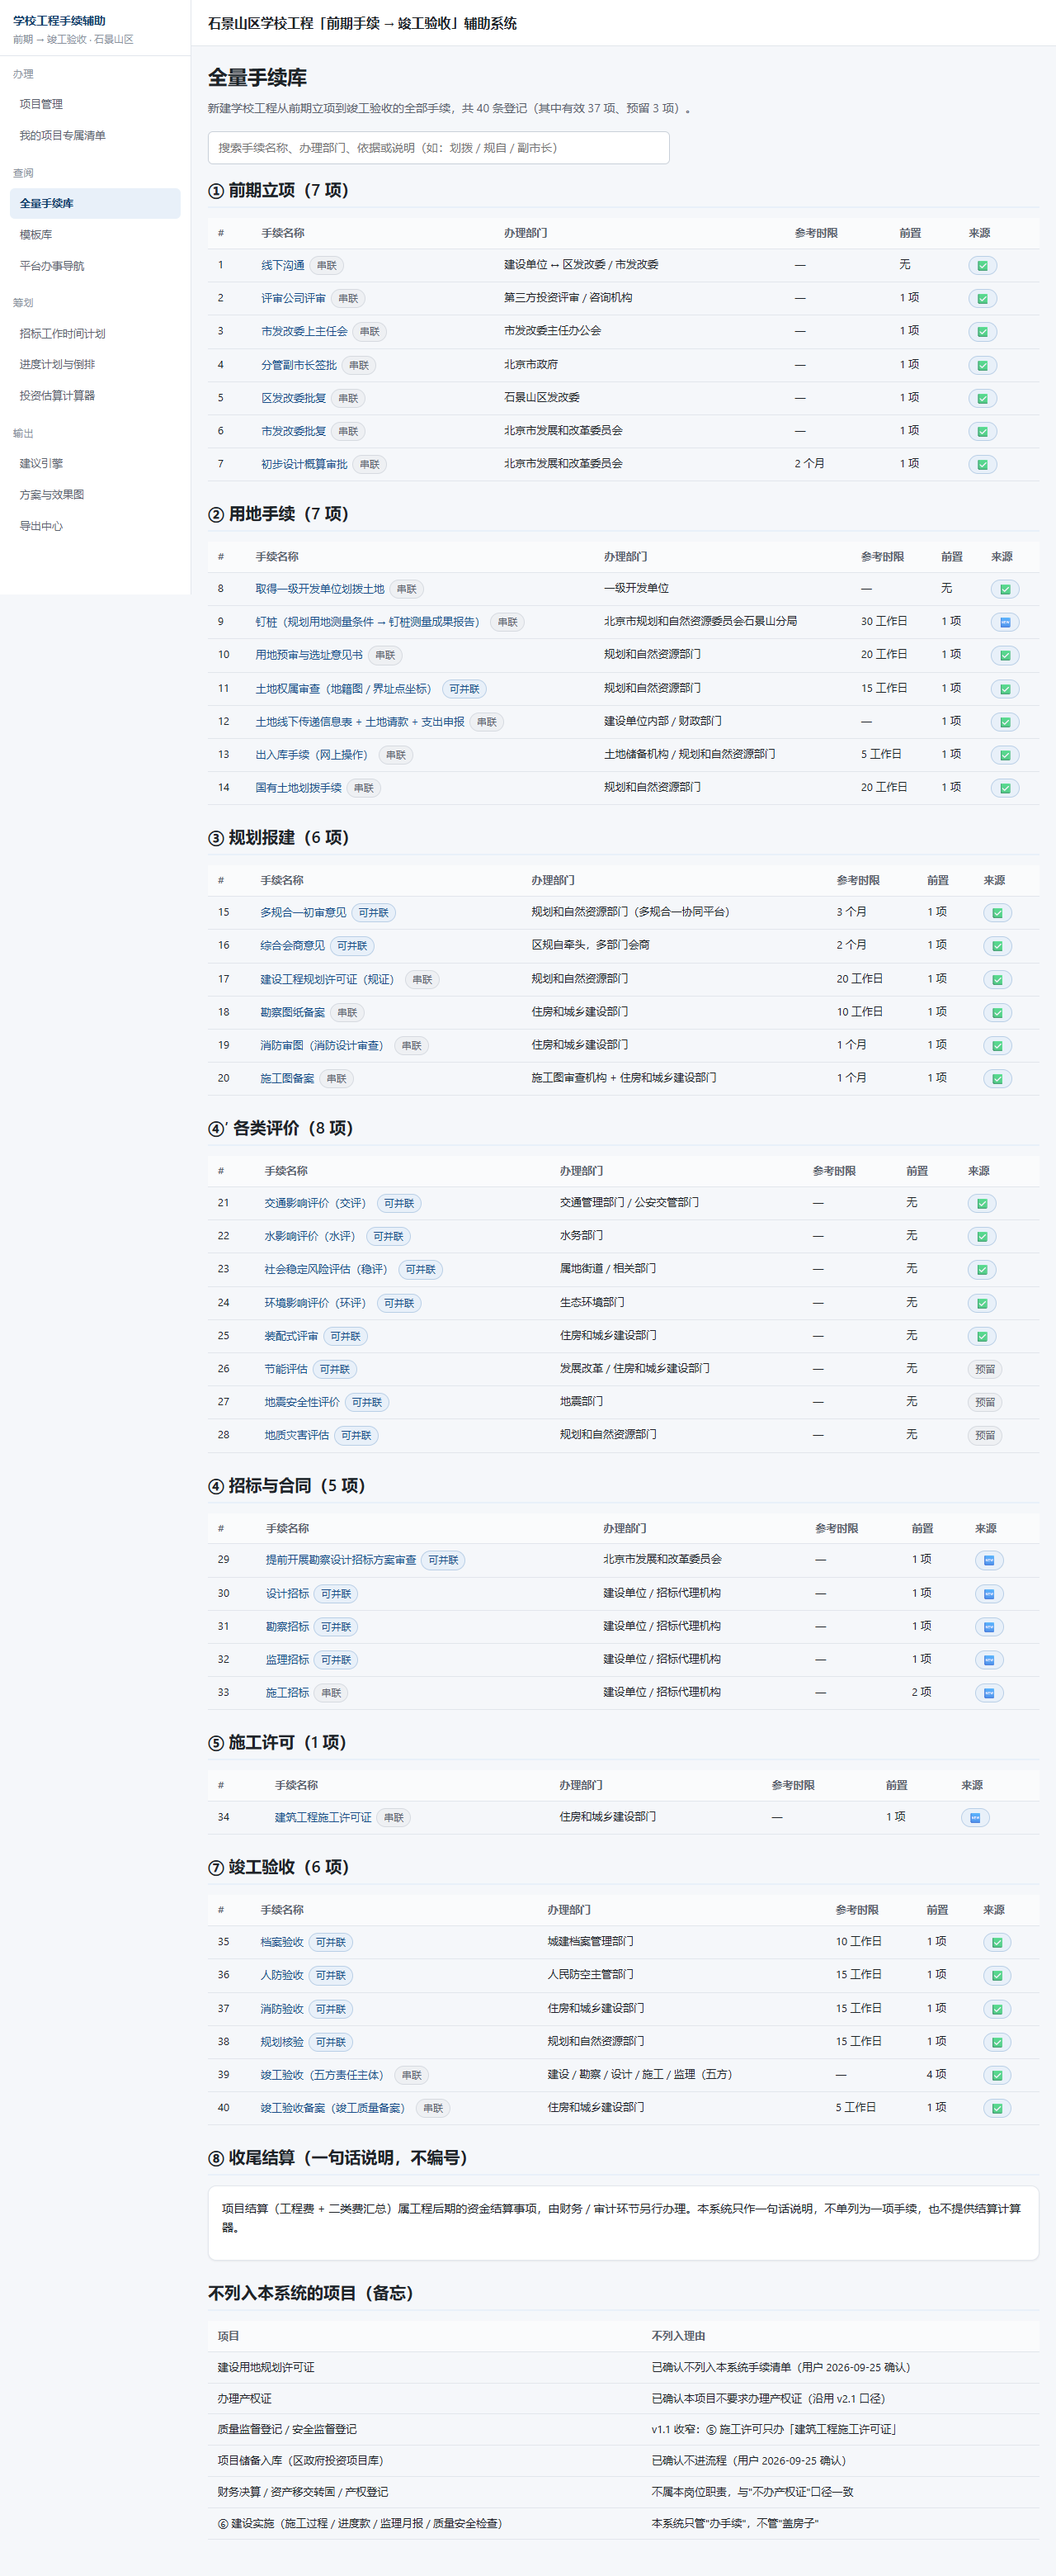
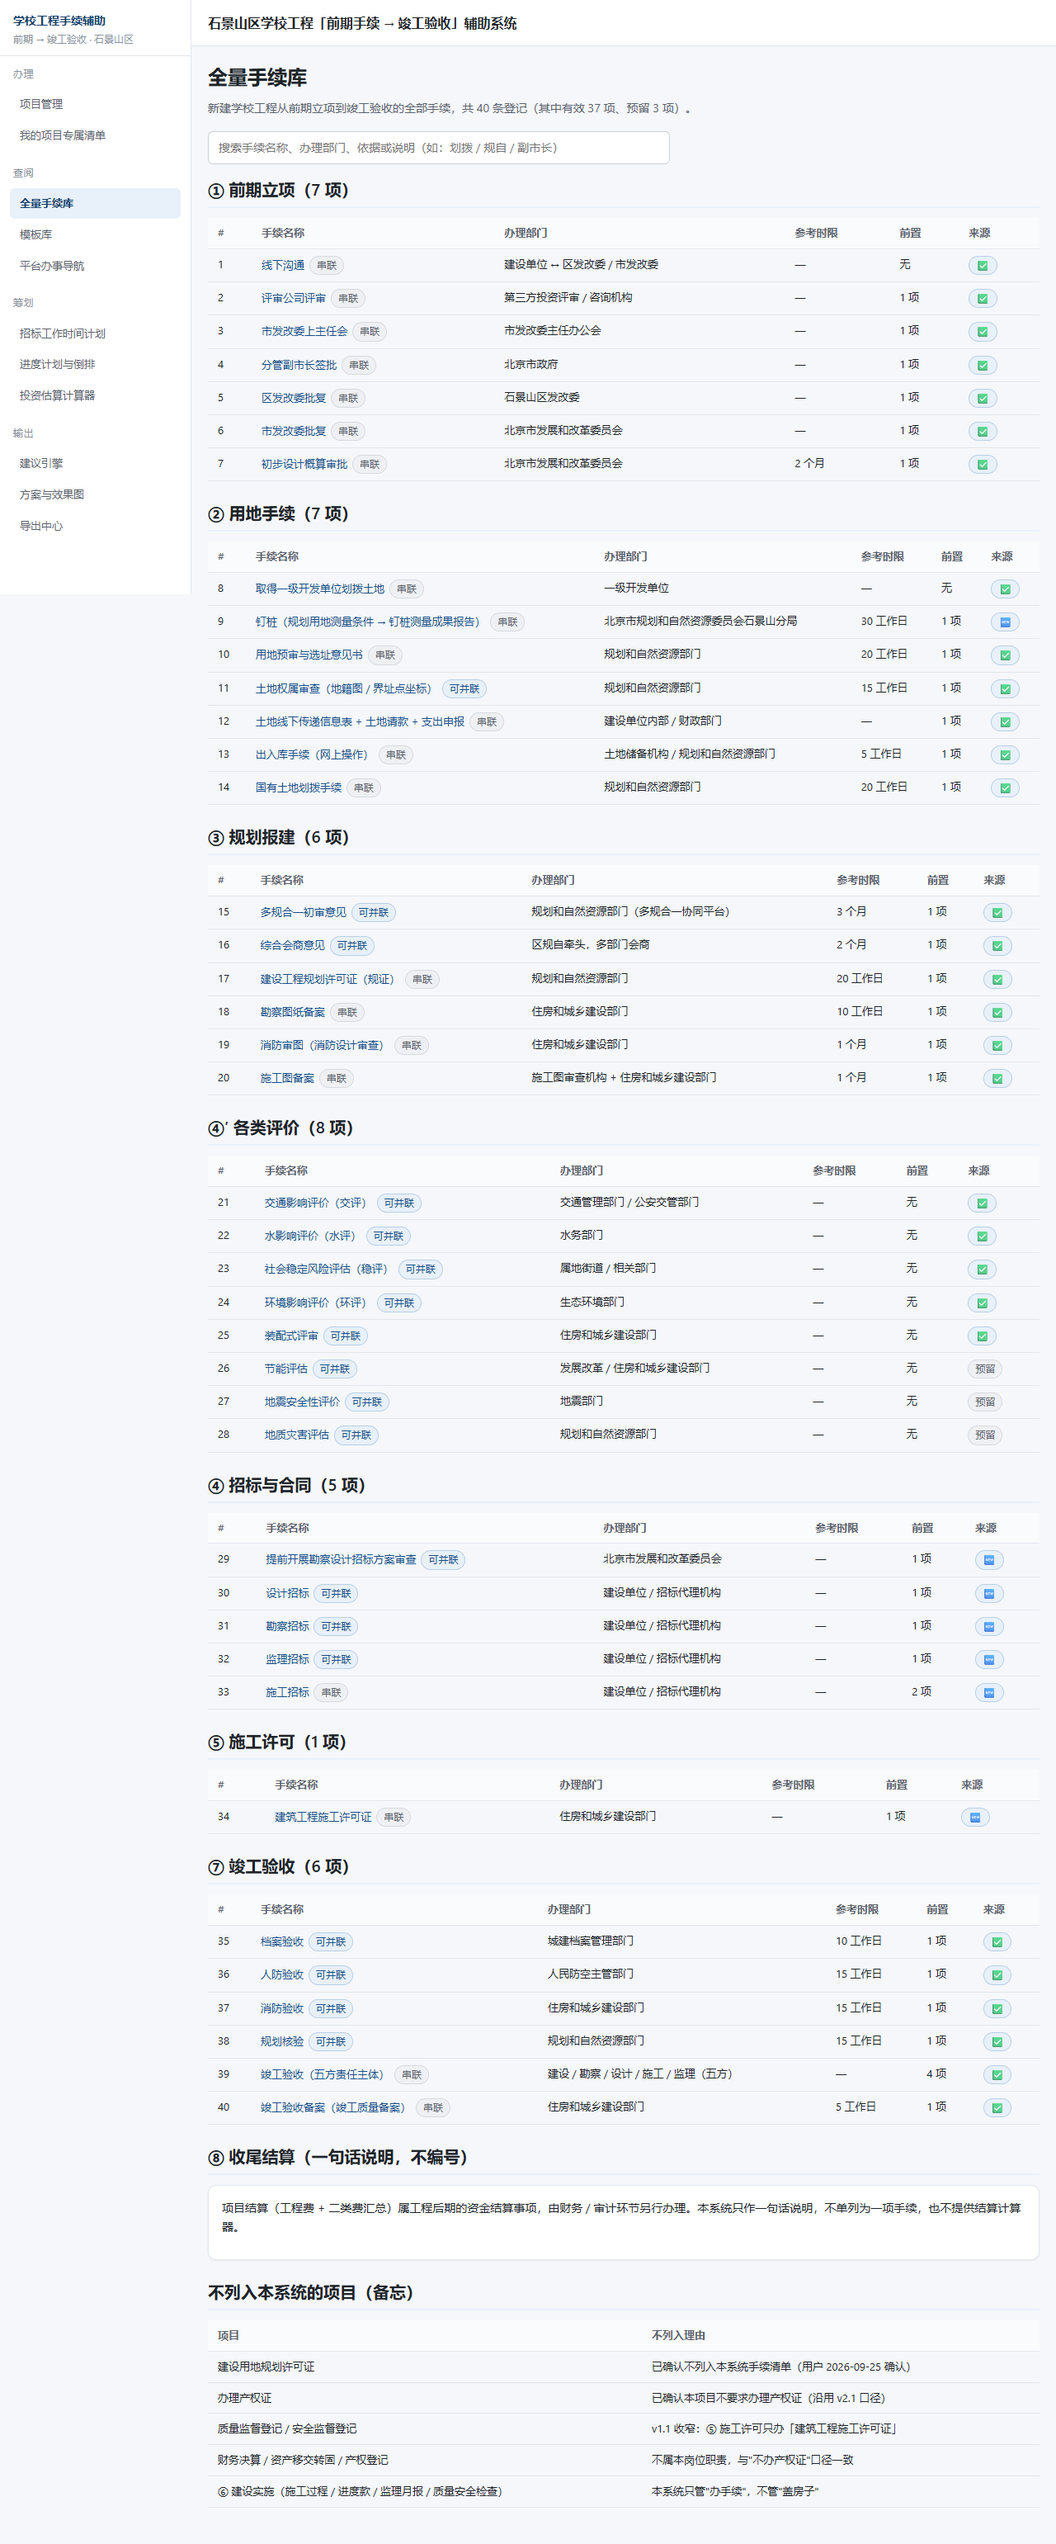
fix: 备忘表移除「项目储备入库」（用户口径不写不列）

diff --git a/tests/guidance.test.js b/tests/guidance.test.js
@@ -5,8 +5,8 @@ const H = require('./_helpers.js');
 const guidance = H.req('js/data/guidance.js');
 const schema = H.req('js/data/schema.js');
 
-test('EXCLUDED：6 条排除口径，每条都有 name 与 reason', () => {
-  assert.equal(guidance.EXCLUDED.length, 6);
+test('EXCLUDED：5 条排除口径，每条都有 name 与 reason', () => {
+  assert.equal(guidance.EXCLUDED.length, 5);
   const names = guidance.EXCLUDED.map((e) => e.name);
   assert.ok(names.includes('建设用地规划许可证'));
   assert.ok(names.includes('办理产权证'));
@@ -17,6 +17,11 @@ test('EXCLUDED：6 条排除口径，每条都有 name 与 reason', () => {
     assert.equal(typeof e.reason, 'string');
     assert.ok(e.reason.length > 0);
   });
+});
+
+test('全库排出口径：「项目储备入库」不写不列，任何用户可见文本均不出现', () => {
+  // spec 第 4 节 ①（用户 2026-09-25 冻结）：不进流程——不写、不列、不作为前置步骤
+  assert.equal(JSON.stringify(guidance).includes('项目储备入库'), false);
 });
 
 test('EVALUATION_HINTS：pj-1..pj-8 全覆盖，pj-6..pj-8 为预留', () => {

diff --git a/js/data/guidance.js b/js/data/guidance.js
@@ -20,7 +20,6 @@
     { name: '建设用地规划许可证', reason: '已确认不列入本系统手续清单（用户 2026-09-25 确认）' },
     { name: '办理产权证', reason: '已确认本项目不要求办理产权证（沿用 v2.1 口径）' },
     { name: '质量监督登记 / 安全监督登记', reason: 'v1.1 收窄：⑤ 施工许可只办「建筑工程施工许可证」' },
-    { name: '项目储备入库（区政府投资项目库）', reason: '已确认不进流程（用户 2026-09-25 确认）' },
     { name: '财务决算 / 资产移交转固 / 产权登记', reason: '不属本岗位职责，与"不办产权证"口径一致' },
     { name: '⑥ 建设实施（施工过程 / 进度款 / 监理月报 / 质量安全检查）', reason: '本系统只管"办手续"，不管"盖房子"' }
   ];
